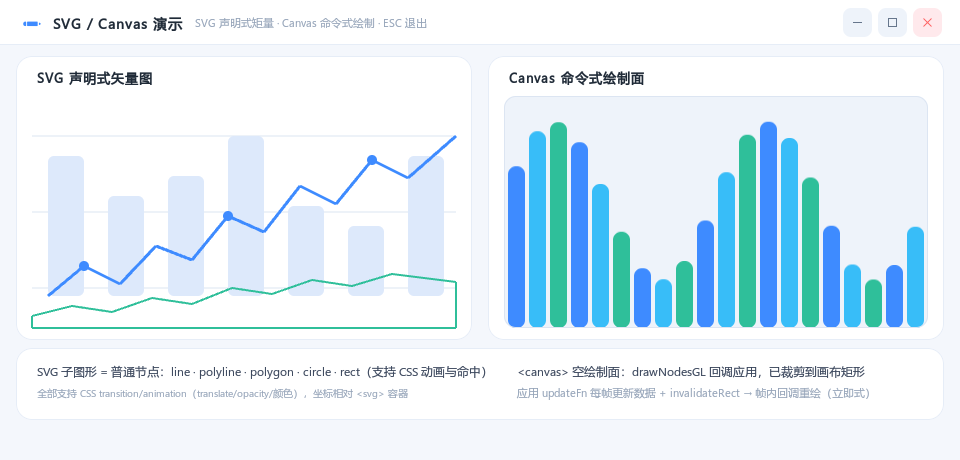
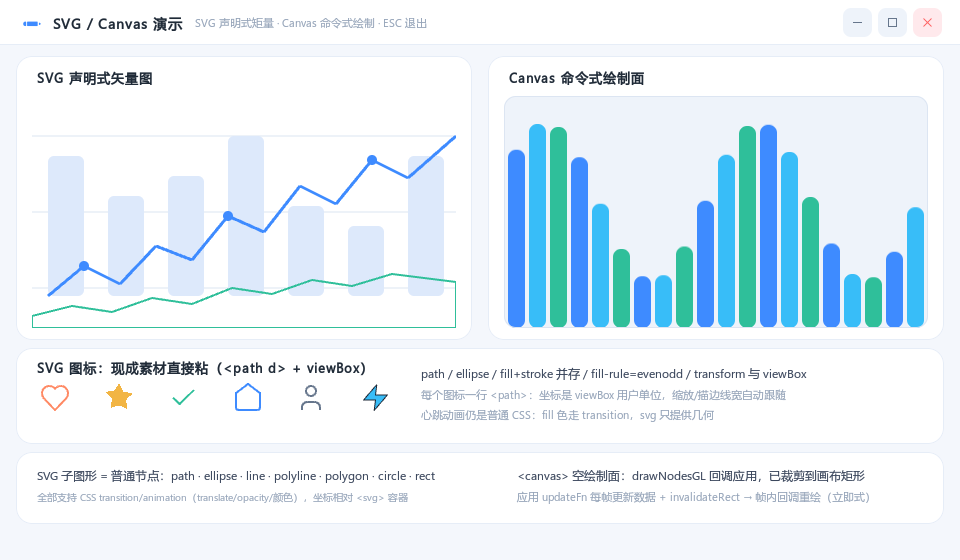
SVG 阶段 D：验收（示例图标条 + 像素基准 + 文档转正）
- examples/svgdemo：窗口 460 -> 560，新增「SVG 图标」面板 —— 6 个现成 Lucide 图标
  （heart 描边 / star 填充 / check / home / user 双路径 / zap 填充+描边），
  全部 32px 显示、viewBox 24：证明"素材直接粘、缩放与线宽自动跟随"
- docs/img/svgdemo.png 换成真实 GL 截屏（960x560，含 canvas 频谱），
  截图流程修正：临时 shot.py 加 SetProcessDPIAware（200% 缩放下 bbox 才对齐），
  窗口先 setWindowPos 挪到无遮挡区域再抓
- 像素基准新增 docs/pixels/svgpath.png + docs/issues/assets/svgpath.html
  （evenodd 环 / 椭圆 / 描边折线 / heart 图标 / 继承+CSS 覆盖），PIXEL_CASES 加一项
- 文档：docs/svg.md 转正为「P1 已实现」并补实现后记（实测数据、两个坑、已知取舍）；
  README 的 SVG 支持矩阵重写、格式徽章 v14 -> v15、示例行更新；
  CHANGELOG 写入 v15 的破坏性与能力清单；tests/README、docs/README、docs/pixels/README 同步
- 验收：make all tools 0 warning；四套测试全绿；check_examples 11 个 UI 0 问题；
  make pixels 5/5 零差异

diff --git a/examples/svgdemo/main.html b/examples/svgdemo/main.html
@@ -1,6 +1,6 @@
 <!DOCTYPE html>
-<app_window width="960" height="460" bg="#F4F7FC" title="SVG / Canvas" window_resize="disable" ui_scale="proportional">
-<html width="960" height="460" bg="#F4F7FC">
+<app_window width="960" height="560" bg="#F4F7FC" title="SVG / Canvas" window_resize="disable" ui_scale="proportional">
+<html width="960" height="560" bg="#F4F7FC">
 <head>
     <meta charset="UTF-8">
     <title>SVG Canvas 演示</title>
@@ -62,9 +62,39 @@
         <canvas id="cvEq" style="position:absolute; left:16; top:40; width:424; height:232; background:#EEF3FA; border:1px solid #DCE5F2; border-radius:12"></canvas>
     </div>
 
+    <!-- 图标条：现成素材（Lucide/Feather 的 path 直接粘）+ viewBox 缩放 -->
+    <div class="panel" style="position:absolute; left:16; top:348; width:928; height:96">
+        <span class="panel-title" style="position:absolute; left:20; top:10; width:420; height:18">SVG 图标：现成素材直接粘（&lt;path d&gt; + viewBox）</span>
+        <!-- 32px 显示、viewBox 24：坐标自动等比放大，stroke-width 也跟着放大 -->
+        <svg style="position:absolute; left:24; top:34; width:32; height:32" viewBox="0 0 24 24">
+            <path d="M19 14c1.49-1.46 3-3.21 3-5.5A5.5 5.5 0 0 0 16.5 3c-1.76 0-3 .5-4.5 2-1.5-1.5-2.74-2-4.5-2A5.5 5.5 0 0 0 2 8.5c0 2.3 1.5 4.05 3 5.5l7 7Z"
+                  fill="none" stroke="#FF8A65" stroke-width="2"/>
+        </svg>
+        <svg style="position:absolute; left:88; top:34; width:32; height:32" viewBox="0 0 24 24">
+            <path d="M11.525 2.295a.53.53 0 0 1 .95 0l2.31 4.679a2.123 2.123 0 0 0 1.595 1.16l5.166.756a.53.53 0 0 1 .294.904l-3.736 3.638a2.123 2.123 0 0 0-.611 1.878l.882 5.14a.53.53 0 0 1-.771.56l-4.623-2.43a2.123 2.123 0 0 0-1.973 0L6.385 20.01a.53.53 0 0 1-.77-.56l.881-5.139a2.122 2.122 0 0 0-.611-1.879L2.15 8.795a.53.53 0 0 1 .294-.906l5.165-.755a2.122 2.122 0 0 0 1.597-1.16z"
+                  fill="#F2B544"/>
+        </svg>
+        <svg style="position:absolute; left:152; top:34; width:32; height:32" viewBox="0 0 24 24">
+            <path d="M20 6 9 17l-5-5" fill="none" stroke="#2FBF9A" stroke-width="2"/>
+        </svg>
+        <svg style="position:absolute; left:216; top:34; width:32; height:32" viewBox="0 0 24 24">
+            <path d="M3 9l9-7 9 7v11a2 2 0 0 1-2 2H5a2 2 0 0 1-2-2z" fill="none" stroke="#3E8BFF" stroke-width="2"/>
+        </svg>
+        <svg style="position:absolute; left:280; top:34; width:32; height:32" viewBox="0 0 24 24">
+            <path d="M12 3a4 4 0 1 0 0 8a4 4 0 1 0 0-8" fill="none" stroke="#66768C" stroke-width="2"/>
+            <path d="M19 21v-2a4 4 0 0 0-4-4H9a4 4 0 0 0-4 4v2" fill="none" stroke="#66768C" stroke-width="2"/>
+        </svg>
+        <svg style="position:absolute; left:344; top:34; width:32; height:32" viewBox="0 0 24 24">
+            <path d="M13 2 3 14h9l-1 8 10-12h-9l1-8z" fill="#38BDF8" stroke="#1F2A37" stroke-width="1"/>
+        </svg>
+        <span class="desc" style="position:absolute; left:404; top:16; width:500; height:18">path / ellipse / fill+stroke 并存 / fill-rule=evenodd / transform 与 viewBox</span>
+        <span class="note" style="position:absolute; left:404; top:38; width:500; height:16">每个图标一行 &lt;path&gt;：坐标是 viewBox 用户单位，缩放/描边线宽自动跟随</span>
+        <span class="note" style="position:absolute; left:404; top:58; width:500; height:16">心跳动画仍是普通 CSS：fill 色走 transition，svg 只提供几何</span>
+    </div>
+
     <!-- 底部说明 -->
-    <div class="panel" style="position:absolute; left:16; top:348; width:928; height:72">
-        <span class="desc" style="position:absolute; left:20; top:14; width:470; height:18">SVG 子图形 = 普通节点：line · polyline · polygon · circle · rect（支持 CSS 动画与命中）</span>
+    <div class="panel" style="position:absolute; left:16; top:452; width:928; height:72">
+        <span class="desc" style="position:absolute; left:20; top:14; width:470; height:18">SVG 子图形 = 普通节点：path · ellipse · line · polyline · polygon · circle · rect</span>
         <span class="note" style="position:absolute; left:20; top:36; width:470; height:16; font-size:10">全部支持 CSS transition/animation（translate/opacity/颜色），坐标相对 &lt;svg&gt; 容器</span>
         <span class="desc" style="position:absolute; left:500; top:14; width:420; height:18">&lt;canvas&gt; 空绘制面：drawNodesGL 回调应用，已裁剪到画布矩形</span>
         <span class="note" style="position:absolute; left:500; top:36; width:400; height:16">应用 updateFn 每帧更新数据 + invalidateRect → 帧内回调重绘（立即式）</span>

diff --git a/docs/issues/assets/svgpath.html b/docs/issues/assets/svgpath.html
@@ -1,0 +1,31 @@
+<!DOCTYPE html>
+<app_window width="420" height="160" bg="#151517" title="svg path probe">
+<html width="420" height="160" bg="#151517">
+<head><meta charset="UTF-8"><style> body { font-size: 12px; color: #ADB2B8; } </style></head>
+<body>
+<!-- 环形：evenodd 挖洞（填充规则 + 多子路径） -->
+<svg style="position:absolute; left:20; top:20; width:60; height:60" viewBox="0 0 24 24">
+    <path d="M2 2 H22 V22 H2 Z M8 8 H16 V16 H8 Z" fill="#7AAAFF" fill-rule="evenodd"/>
+</svg>
+<!-- 椭圆（两个方向半径不同） -->
+<svg style="position:absolute; left:100; top:20; width:60; height:40" viewBox="0 0 24 24">
+    <ellipse cx="12" cy="12" rx="10" ry="7" fill="#4ED17E"/>
+</svg>
+<!-- 描边折线（fill=none）：转角补圆 + 线宽跟随 viewBox 缩放 -->
+<svg style="position:absolute; left:180; top:20; width:60; height:60" viewBox="0 0 24 24">
+    <path d="M3 20 L8 6 L13 16 L18 4 L21 12" fill="none" stroke="#F59E0B" stroke-width="2"/>
+</svg>
+<!-- 真实图标（Lucide heart，含弧与相对命令） -->
+<svg style="position:absolute; left:260; top:20; width:48; height:48" viewBox="0 0 24 24">
+    <path d="M19 14c1.49-1.46 3-3.21 3-5.5A5.5 5.5 0 0 0 16.5 3c-1.76 0-3 .5-4.5 2-1.5-1.5-2.74-2-4.5-2A5.5 5.5 0 0 0 2 8.5c0 2.3 1.5 4.05 3 5.5l7 7Z"
+          fill="none" stroke="#F25A5A" stroke-width="2"/>
+</svg>
+<!-- 继承 + CSS 优先级：svg 给绿色，类规则把第二个改成蓝 -->
+<svg style="position:absolute; left:330; top:20; width:70; height:60" viewBox="0 0 24 24" fill="#4ED17E">
+    <path d="M2 2 H11 V22 H2 Z"/>
+    <path class="blue" fill="#F25A5A" d="M13 2 H22 V22 H13 Z"/>
+</svg>
+<span style="position:absolute; left:20; top:110; width:400; height:16; font-size:11px; color:#81858C">svg path: evenodd / ellipse / stroked line / heart icon / inherit+css</span>
+<style> .blue { fill: #7AAAFF; } </style>
+</body></html>
+</app_window>

diff --git a/README.md b/README.md
@@ -4,7 +4,7 @@
 [![Version](https://img.shields.io/badge/version-0.3.0-blue.svg)](CHANGELOG.md)
 [![License: MIT](https://img.shields.io/badge/license-MIT-blue.svg)](LICENSE)
 [![C++17](https://img.shields.io/badge/C%2B%2B-17-blue.svg)](#构建)
-[![Format v14](https://img.shields.io/badge/binUI%20format-v14-orange.svg)](include/binui_format.h)
+[![Format v15](https://img.shields.io/badge/binUI%20format-v15-orange.svg)](include/binui_format.h)
 [![Platform](https://img.shields.io/badge/platform-Windows%20%7C%20Linux-lightgrey.svg)](#跨平台方向)
 
 把 **UI 描述源码（XML / HTML5）编译为紧凑的二进制布局（binUI），再解析为节点树供任何渲染后端绘制**。纯 C++17，核心（编译/解析/命中测试/事件）无平台 API 依赖；字体渲染基于 FreeType + HarfBuzz（`third_party` 静态源码，跨平台一致）。
@@ -75,7 +75,7 @@ third_party/        FreeType / HarfBuzz 源码（不入库，脚本拉取）
 | `examples/fontshow` | **字体与输入法**：字号阶梯 / 字重 400–800 / 斜体 / 行高 / 文字装饰 / 中英混排与符号 + IME 组字·候选框跟随光标·选词上屏（`BINUI_IME_LOG=1` 出消息日志） |
 | `examples/buttonshow` | **按钮样式**：语义色 / 尺寸 / 圆角 / 纯色·渐变·描边·幽灵底 / :hover·`:active`·`:checked`·disabled 状态 / 图标·文本·块级形态 |
 | `examples/flexshow` | **自适应布局**：百分比 / `flex:1` / `min·max-width` / `width:content` / `flex:1`+`overflow:auto` —— 整份 UI 无绝对定位，拖窗口边框实时重排（唯一可缩放窗口的示例） |
-| `examples/svgdemo` | **2D 渲染**：`<svg>` 声明式矢量（line/polyline/polygon/rect/circle）+ `<canvas>` 命令式绘制面 |
+| `examples/svgdemo` | **2D 渲染**：`<svg>` 声明式矢量（path/ellipse/line/polyline/polygon/rect/circle + viewBox/transform/图标）+ `<canvas>` 命令式绘制面 |
 | `examples/cubedemo` | **3D 渲染**：应用自己算顶点与透视，只用 `fillLine` 画线框立方体（引擎不做 3D） |
 | `examples/texturedemo` | **纹理**：`updateImageRaw` 运行期上传，同一张纹理多尺寸采样 |
 | `components/` | **标准组件库**：标题栏 / 按钮 / 输入框 / 胶囊 / 开关 / 面板 / 对话框 / 指标 / 头像 / 分隔线 / 状态栏（见 [`components/README.md`](components/README.md)） |
@@ -355,8 +355,8 @@ HTML5 编译规则：
 - 图片：`img src="icon.png"` 会分配 `imageIndex`，编译器通过 `CompileBinUIEx` 返回资源路径表；渲染后端解码并绘制真实图片（无资源时回退为圆形）。**运行时换图**：`renderer.updateImage(index, data, size)` 以新编码数据替换，`renderer.updateImageRaw(index, w, h, rgba)` 以原始 RGBA8 像素替换（无解码）；渲染后端按 `imageGeneration(index)` 版本号自动重传纹理，GL/D3D 后端均支持 `prepareImageRaw`（RGBA 字节序直传）。
 - `<app_window>` 作根元素：若正文含 `DOCTYPE/<html>/<body>/<head>` 按 HTML 解析；否则识别为 **XML 并自动合成 ROOT 节点**（id 0，尺寸/背景取窗口属性，子元素挂其下）——无需 `<binui>`/`<root>` 包裹层。
 - flexbox：`display:flex` 容器编译期布局，支持 `flex-direction`（row/column）、`justify-content`（flex-start/flex-end/center/space-between/space-around）、`align-items`（flex-start/center/flex-end）、`gap`。**主轴分配**：声明尺寸（含百分比）先占位，`flex:N` 与（row 下）未声明宽度按权重分**剩余**主轴长度；`width:content` 表示"按文字宽度排"（用编译器自己的字宽估算 ×1.08 + 4px，宁可多几像素也不裁字）—— 标题/标签后面跟一行副标题这类"紧挨着"的排版靠它，不用手调像素；**column 下主轴是高度**——`flex:1` 分高度，未声明宽度则沿交叉轴拉伸到内容盒。`space-around` 按 CSS 首尾各半间距。**溢出**按 CSS 处理（自由空间钳到 0，不产生负间距，子项允许溢出容器）；**flex-shrink 未实现**（溢出时固定项不收缩，弹性项被钳到 0）。未声明高度容器自动扩展。运行时 `setSize` 重排走同一套算法（`BinUISpecFlex` + 子项 `flexWeight`）。
-- `<svg>` 声明式矢量：`<svg>` 是透明容器（子图形坐标相对容器、绘制裁剪到容器），子标签全部编译为**普通节点**（支持 CSS transition/animation 与命中）——`<line x1 y1 x2 y2 stroke stroke-width>`→`BINUI_LINE`、`<circle cx cy r fill>`/`<rect x y width height rx fill>`→圆角块、`<polyline points="x,y x,y …" stroke …>`/`<polygon points>`→展开成多条线段。默认 `fill`/`stroke` 为黑（SVG 规范默认），未给底色时 `<svg>` 透明。
-  **不支持**（各自有明确编译告警，不再静默）：`<path>`（无路径解析）、`<ellipse>`（只有正圆）、`<text>/<tspan>`（用 `<span>` 绝对定位）、`<g>` 的 `transform`（只作分组容器）、`viewBox`（坐标一律容器内绝对像素）、`<defs>/<linearGradient>/<mask>/<clipPath>/<pattern>/<marker>/<symbol>/<image>`。要曲线/任意路径请改用 `<canvas>` 的命令式回调。
+- `<svg>` 声明式矢量：`<svg>` 是透明容器（子图形坐标相对容器、**绘制裁剪到容器**），子标签全部编译为**普通节点**（支持 CSS transition/animation 与命中）。**支持**：`<path d="…">`（`M L H V C S Q T A Z` 全命令集，绝对/相对/隐式重复/弧标志紧贴；`fill`+`stroke` 并存、`fill-rule="evenodd"`）→`BINUI_PATH`；`<ellipse cx cy rx ry>`；`<line x1 y1 x2 y2 stroke stroke-width>`→`BINUI_LINE`；`<circle cx cy r fill>`/`<rect x y width height rx fill>`→圆角块；`<polyline points="x,y x,y …" stroke …>`/`<polygon points>`→展开成多条线段。**坐标系**：`viewBox`（等比 `meet` 居中，`preserveAspectRatio="none"` 直接拉伸）+ `<g transform>`（`translate/scale/rotate/skewX/skewY/matrix`，`<g>` 不建立坐标系）。**颜料继承**：`fill`/`stroke`/`stroke-width`/`fill-rule` 从祖先继承（含 `currentColor`），`stroke-width` 跟着缩放；优先级按 SVG 规范 **CSS > 表现属性 > 继承 > 默认**（默认黑填充、无描边）。内部存储是`uint16` 归一化折线（曲线在编译期按 0.1px 容差细分），所以缩放/重排不会走形，极限放大能看到折线。
+  **不支持**（各自有明确编译告警，不再静默）：`<text>/<tspan>`（用 `<span>` 绝对定位）、`<defs>/<use>/<symbol>`、`linearGradient`/`radialGradient`、`mask`/`clipPath`/`pattern`/`marker`、`<image>`、`stroke-dasharray`；`<circle>`/`<rect>` 仍是轻量映射，**不能 fill 与 stroke 并存**（要描边请用 `<path>`）。
 - `<canvas>` 命令式绘制面：定位矩形节点（`BINUI_CANVAS`），默认透明；应用在 `drawFn` 里给 `drawNodesGLGdi`（或 `drawNodesD3D`）传一个 `CanvasDrawFn` 回调（`nodeId, x, y, w, h`），后端绘制到该节点时**已裁剪到画布矩形**地调用回调——把"HTML 管布局、代码管数据"落到画布上，适合频谱/波形等每帧重绘的动态内容。
 - `<video>` 视频播放（v9）：编译为 `BINUI_VIDEO` 节点 + 视频描述段；属性 `src`（相对 UI 文件目录）、`autoplay`、`loop`、`muted`、`controls`（浏览器式控制条）、`volume="0..1"`。播放状态机（play/pause/seek/回绕/ENDED 事件）在渲染器内实现，**解码像素由可选模块推送**——见「视频播放」章节；未启用模块时仅绘制底色，控制条交互照常。
 - 滚动容器：`overflow:auto/scroll` 产生固定视口（不再自动扩展高度），运行时支持 `scrollTo`/`scrollBy`/滚轮（`scrollAt`）/滚动条拖动，命中测试与绘制均按滚动偏移并裁剪视口，`SCROLL` 事件通知变化。**`overflow:hidden` 只裁剪不滚动**（v13 起与 `auto/scroll` 区分：不出滚动条、不响应滚轮，`renderer.isUserScrollable()` 为 false）。**裁剪子元素只由这三类容器触发**（判定口径见 `renderer.clippingAncestors()`）：普通 div（包括组件自己的根 div）按 CSS 语义**不**裁剪，子元素放大/溢出会画出去 —— 以前三个后端无脑按每个祖先矩形裁，组件按钮 `:hover` 放大 1.04 会被与它等大的组件根 div 切回原状，看着像“被困在盒子里放大”。

diff --git a/docs/svg.md b/docs/svg.md
@@ -1,7 +1,10 @@
 # SVG 支持方案（`<path>` 起步）
 
-> 状态：**方案稿（未实现）**。目标版本 0.3.1，布局格式 `BINUI_VERSION` 14 → 15。
-> 本文只回答"怎么加"，实现按第 5 节分四步走，每步独立提交、独立验收。
+> 状态：**P1 已实现**（0.3.1，布局格式 `BINUI_VERSION` 14 → 15）。
+> 下面的第 1–3 节保留方案原貌（含最初的判断依据），第 4 节之后是落地情况与实现后记；
+> P2/P3 的待办见第 6 节，仍按原计划推进。
+> 实现分四次提交：A 几何内核 → B 格式与三端渲染 → C SVG 语义（viewBox/transform/继承）
+> → D 验收（示例、像素基准、文档）。
 
 ---
 
@@ -249,3 +252,47 @@ P1 里这个降级不做，但文档要写清"圆/矩形没有独立描边"。
   `<image>` → `BINUI_IMAGE`、圆/矩形在带描边时自动降级成 path。
 - **P3**：精确命中（点在路径内，可选）、span 缓存、命令级存储 + 运行时再细分、可选灰度抗锯齿
   （只对 path 边缘，全库仍走硬边）。
+
+---
+
+## 7. 实现后记（落地时才知道的）
+
+### 7.1 实际交付
+
+| 阶段 | 提交 | 要点 |
+|---|---|---|
+| A | `d970e1a` | `include/binui_path.h`（`d` 解析 / 弧转贝塞尔 / 细分 / 椭圆 / 矩阵 / 变换解析 / viewBox 矩阵 / 点在路径内 / `uint16` 归一化）；`binui_paint.h` 加 `BuildPathFillBands` / `PaintPathStroke` / `PaintPathNode`；`test_elements` 新增 `suite_svgpath` |
+| B | `fd1e0ee` | v15 + `BINUI_PATH` + 路径段读写 + `sectionAt` 序号 + 链接器四件套 + 三端 case + `<svg>` 裁剪 |
+| C | `63abc2a` | `Ctx` 增加 `svgXform` 与颜料继承；viewBox / `preserveAspectRatio` / `<g transform>` / `currentColor` / CSS 优先级；`stroke-width` 随缩放 |
+| D | 本次 | svgdemo 图标条（6 个 Lucide 图标）+ 真实 GL 截屏；像素基准 `svgpath`；README/CHANGELOG/本文档 |
+
+### 7.2 实测数据
+
+- 圆弧细分精度：半径 10 的四分之一圆，容差 0.05 时**离真圆最大偏差 0.0196px**；
+  椭圆归一化往返误差 **0.000076px**（`uint16` 归一化够用）。
+- 填充正确性：直角三角形面积 820 vs 解析 800（1px 行取整的正常误差）；
+  环的 evenodd 挖洞 4 条带、nonzero 整块 1 条带（垂直合并生效）。
+- 条带上限降级：400px 的圆 `cap=16` 触发截断；`cap=256` + 行步长 8 → 47 条完整画完。
+- 三端一致性：同一份 UI，GDI 与 GL **填充 0 像素差**；193 个差异像素全部落在描边边缘
+  （GL 的 `fillLine` 自带抗锯齿，是既有行为，不是路径层引入的）。
+
+### 7.3 两个踩过的坑（写进代码注释了）
+
+1. **双重偏移**：`<svg>` 的子坐标映射一开始把 `T(内容盒原点)` 也乘进了 `svgXform`，
+   而 `Ctx.ox` 本来就是内容盒原点 —— 结果整棵图形右下漂 `left+top` 那么多。
+   现在的约定写死了：`绝对坐标 = (ox, oy) + svgXform × 用户坐标`，`svgXform` 里**不含位移**。
+2. **`<g>` 不是布局盒子**：binUI 里任何容器节点都会把子元素原点是它自己的内容盒挪走，
+   而 SVG 的 `<g>` 不建立坐标系。处理方式：`<g>` 编成零尺寸绝对定位节点，
+   并把子上下文的内容盒原点**继承父容器的**（`child.ox = pc.ox`），只往下传 `transform`。
+
+### 7.4 已知取舍
+
+- **描边连接**：只有圆角连接（转角 > 15° 补圆点），没有 miter/bevel —— 尖角图标（五角星）
+  会比标准 SVG 略圆。
+- **两条线之间**没有抗锯齿：硬边与整个库一致；GL 端 `fillLine` 的边缘是它自己的 AA，
+  所以"填充逐像素一致、描边边缘略有差异"。
+- **`<circle>` / `<rect>` 不能 fill + stroke 并存**：它们仍是轻量映射，要描边请用 `<path>`；
+  编译器对"写了 stroke 的圆/矩形"会明确告警。
+- **嵌套 `<svg>`**：内层 svg 自己的 `transform` 与 viewBox 会重新起算，祖先的变换不叠加
+  （嵌套 svg 在图标素材里极少见，暂不处理）。
+

diff --git a/CHANGELOG.md b/CHANGELOG.md
@@ -6,6 +6,40 @@
 
 ## [Unreleased]
 
+### 新增 — SVG `<path>` / `<ellipse>`：真正的矢量路径（【格式 v15】）
+
+- **现在能直接粘现成图标**（Lucide / Feather / Material 那一套 `<path d="M…">`），
+  不再是"五个图元 + 路径不支持"。命令集 `M L H V C S Q T A Z` 全支持（绝对/相对、
+  隐式重复、紧贴负数、弧标志紧贴写法），`A` 在编译期转三次贝塞尔后统一细分。
+- **格式**：新增节点类型 `BINUI_PATH = 10`（`BINUI_NODE_PATH`）。节点 `x/y/w/h`
+  就是几何包围盒（有描边时外扩 `strokeW/2`，笔画不溢出、命中区盖得住），
+  折线放在新的**路径段**里（定长头 + 子路径表 + `uint16` 归一化点），
+  段序在扩展绘制段之后、名称段之前。
+- **为什么存折线**：运行期只做"归一化点 × 节点盒"的两次乘加 —— 不解析、不缓存、
+  重排/等比缩放下形状自动跟随；曲线细分在编译期一次做完（容差 0.1 用户单位，
+  实测半径 10 的圆弧离真圆最大偏差 0.0196px）。代价是极限放大能看到折线。
+- **三端共用一份几何**（`include/binui_paint.h`）：扫描线求交 → 轴对齐条带 →
+  `fillRect`，相邻同宽行自动合并；撞条带上限时按行步长降级（1→2→4→8）保证画完
+  （400px 的圆：cap=16 触发截断，cap=256 + 步长 8 → 47 条完整画完）。
+  描边逐段画线、转角超过 15° 补一个圆点（圆角连接）。
+- **SVG 语义**：`viewBox`（等比 `meet` 居中，`preserveAspectRatio="none"` 直接拉伸）、
+  `<g transform>`（`translate/scale/rotate/skewX/skewY/matrix` 可串联，且 `<g>` 不建立坐标系）、
+  `fill`/`stroke`/`stroke-width`/`fill-rule` 变成**可继承**属性（含 `currentColor`），
+  `stroke-width` 跟着坐标变换一起缩放（放大后线不会还是 2px）。
+  **SVG 颜料属性按规范走 CSS > 表现属性 > 继承 > 默认**（与 binUI 其它属性"属性盖 CSS"
+  相反，单独一条 `pickSvgPaint`）。
+- **顺手修掉一个真 bug**：`<svg>` 的注释从第一条就说"绘制裁剪到容器"，但三端都没实现，
+  子图形一直能画到容器外面。现在 `clippingAncestors()` 把 `<svg>` 也算裁剪祖先。
+- **破坏性**：`BINUI_VERSION` 14 → 15，旧 `.bui` / `.bum` 一律拒载，需重编
+  （与历史每次 bump 一致；`binui.res` 里存的是源码，重编即可）。
+- 仍不支持（有明确告警）：渐变 `linearGradient/radialGradient`、`stroke-dasharray`、
+  `mask`/`clipPath`/`pattern`/`marker`、`<defs>/<use>/<symbol>`、`<text>`、`<image>`。
+  `<circle>` / `<rect>` 仍是轻量映射（不能 fill 与 stroke 并存），需要描边请用 `<path>`。
+- 验证：`test_elements` 新增 `suite_svgpath`（解析/精度/容差/错误/上限、面积与采样
+  双向验证填充、evenodd 与 nonzero 差异、条带合并、描边接缝、viewBox/g transform/继承/
+  CSS 优先级）；像素基准新增 `docs/pixels/svgpath.png`；GDI 与 GL 对照 —— 填充 0 像素差，
+  描边只在边缘因 GL 的 `fillLine` 抗锯齿不同。
+
 ### 修复 — SVG 不支持的标签/属性从"静默无效"改成明确告警
 
 - 现象：写 `<path d="…">` / `<ellipse>` / `<text>` / `<g transform="translate(…)">` / `viewBox`

diff --git a/docs/README.md b/docs/README.md
@@ -7,7 +7,7 @@
 | [keyboard_focus.md](keyboard_focus.md) | **键盘焦点系统**：焦点控制 / 文本编辑 / 鼠标三态与按键表、WASD 移焦点、方向键滚哪个容器、回车两段式、焦点环（:focus-visible + 2 秒自动熄灭）、宿主接法；末尾是层级焦点导航（下潜 / 上浮）的未来开发计划（未实现） |
 | [app_layout.md](app_layout.md) | **应用散装形态**：exe 真实路径解析、UI 文件 6 级查找顺序、`src` 相对规则、`.bex` 容器的映射契约 |
 | [components.md](components.md) | **组件化**：`<use src="x.bum.html">` 编译期内联、参数/合并/CSS 作用域规则、`.bum` 二进制与运行时挂载、目录结构 |
-| [svg.md](svg.md) | **SVG 支持方案（方案稿，未实现）**：现状实测、`BINUI_PATH` 节点 + v15 路径段的格式、编译期 viewBox/变换/继承、三端共用扫描线填充、四阶段拆分与验收 |
+| [svg.md](svg.md) | **SVG 支持（P1 已实现）**：现状实测、`BINUI_PATH` 节点 + v15 路径段的格式、编译期 viewBox/变换/继承、三端共用扫描线填充、四阶段拆分与验收 |
 | [bex_container.md](bex_container.md) | **`.bex` 单文件容器规范（设计归档，暂不实现）**：ELF 自定义段 / PE 资源节承载 binUI 布局、节布局与 trailer |
 | [img/](img/) | 文档用图：默认布局渲染、字体渲染对比、伪类演示、语言绑定演示 |
 | [../tests/README.md](../tests/README.md) | **测试用例**：四个主题套件（CSS / 元素 / 字体与输入法 / C ABI）、无窗口能测什么、历史合并记录 |
@@ -25,7 +25,7 @@
 | [img/std-components.png](img/std-components.png) | `components/preview.html` 的离屏渲染（标准组件库全览） |
 | [img/animshow.png](img/animshow.png) | `examples/animshow` 的离屏渲染（关键帧 / 过渡；静态呈现，动态需真实运行） |
 | [img/fontshow.png](img/fontshow.png) | `examples/fontshow` 的离屏渲染（字号 / 字重 / 斜体 / 行高 / 文字装饰 + ⑤ 输入法区；组字串与候选框是运行时行为，静态图里看不到） |
-| [img/svgdemo.png](img/svgdemo.png) | `examples/svgdemo` 的**GL 真机截屏**（`<svg>` 矢量 + `<canvas>` 频谱；canvas 内容离屏渲染看不到） |
+| [img/svgdemo.png](img/svgdemo.png) | `examples/svgdemo` 的**GL 真机截屏**（`<svg>` 矢量 + 6 个现成 `<path>` 图标 + `<canvas>` 频谱；canvas 内容离屏渲染看不到） |
 | [img/cubedemo.png](img/cubedemo.png) | `examples/cubedemo` 的**GL 真机截屏**（应用自己算顶点/投影、用 `fillLine` 画的线框立方体；离屏渲染只有空画布） |
 | [img/texturedemo.png](img/texturedemo.png) | `examples/texturedemo` 的**GL 真机截屏**（`updateImageRaw` 每帧上传的程序化纹理多尺寸采样；离屏渲染拿不到运行时纹理） |
 | [img/python-binding.png](img/python-binding.png) | Python 绑定演示界面（`bindings/python/demo_ui.html`） |

diff --git a/tests/README.md b/tests/README.md
@@ -6,7 +6,7 @@
 | 套件 | 覆盖什么 | 依赖 |
 |---|---|---|
 | [`test_css.cpp`](test_css.cpp) | CSS 属性落到节点字段的口径、选择器（单段）、伪元素 `::before/::after`、结构伪类、编译器告警、`docs/issues` 的编译器侧回归 | 核心库 |
-| [`test_elements.cpp`](test_elements.cpp) | 二进制格式往返、元素树与布局、命中测试与事件、伪元素绘制几何、圆角/边框条带、滚动、键盘路由（WASD 焦点 / 方向键滚页面 / 回车进出编辑 / 焦点环超时）、动画与过渡、热重载 | 核心库 |
+| [`test_elements.cpp`](test_elements.cpp) | 二进制格式往返、元素树与布局、命中测试与事件、伪元素绘制几何、圆角/边框条带、**SVG 路径几何与扫描线填充**（`suite_svgpath`：`d` 解析/细分精度/填充规则/条带合并/viewBox/transform/颜料继承）、滚动、键盘路由（WASD 焦点 / 方向键滚页面 / 回车进出编辑 / 焦点环超时）、动画与过渡、热重载 | 核心库 |
 | [`test_font.cpp`](test_font.cpp) | 字体发现 / 灰度光栅化 / 整形度量 / 豆腐块，以及**输入法（IME）的 UTF-16 光标桥接**（全角字、代理对 emoji、上屏插入、失焦提交） | 核心库 + FreeType/HarfBuzz |
 | [`test_capi.cpp`](test_capi.cpp) | C ABI 的字段顺序/返回值语义/两段式取文本（不开窗口） | 核心库 + GL 后端对象 |
 

diff --git a/docs/pixels/README.md b/docs/pixels/README.md
@@ -1,6 +1,6 @@
 # 像素回归基准图
 
-`docs/pixels/*.png` 是 `docs/issues/assets/` 下四份自检布局的**基准渲染结果**（GDI 离屏）。
+`docs/pixels/*.png` 是 `docs/issues/assets/` 下五份自检布局的**基准渲染结果**（GDI 离屏）。
 
 ## 怎么用
 
